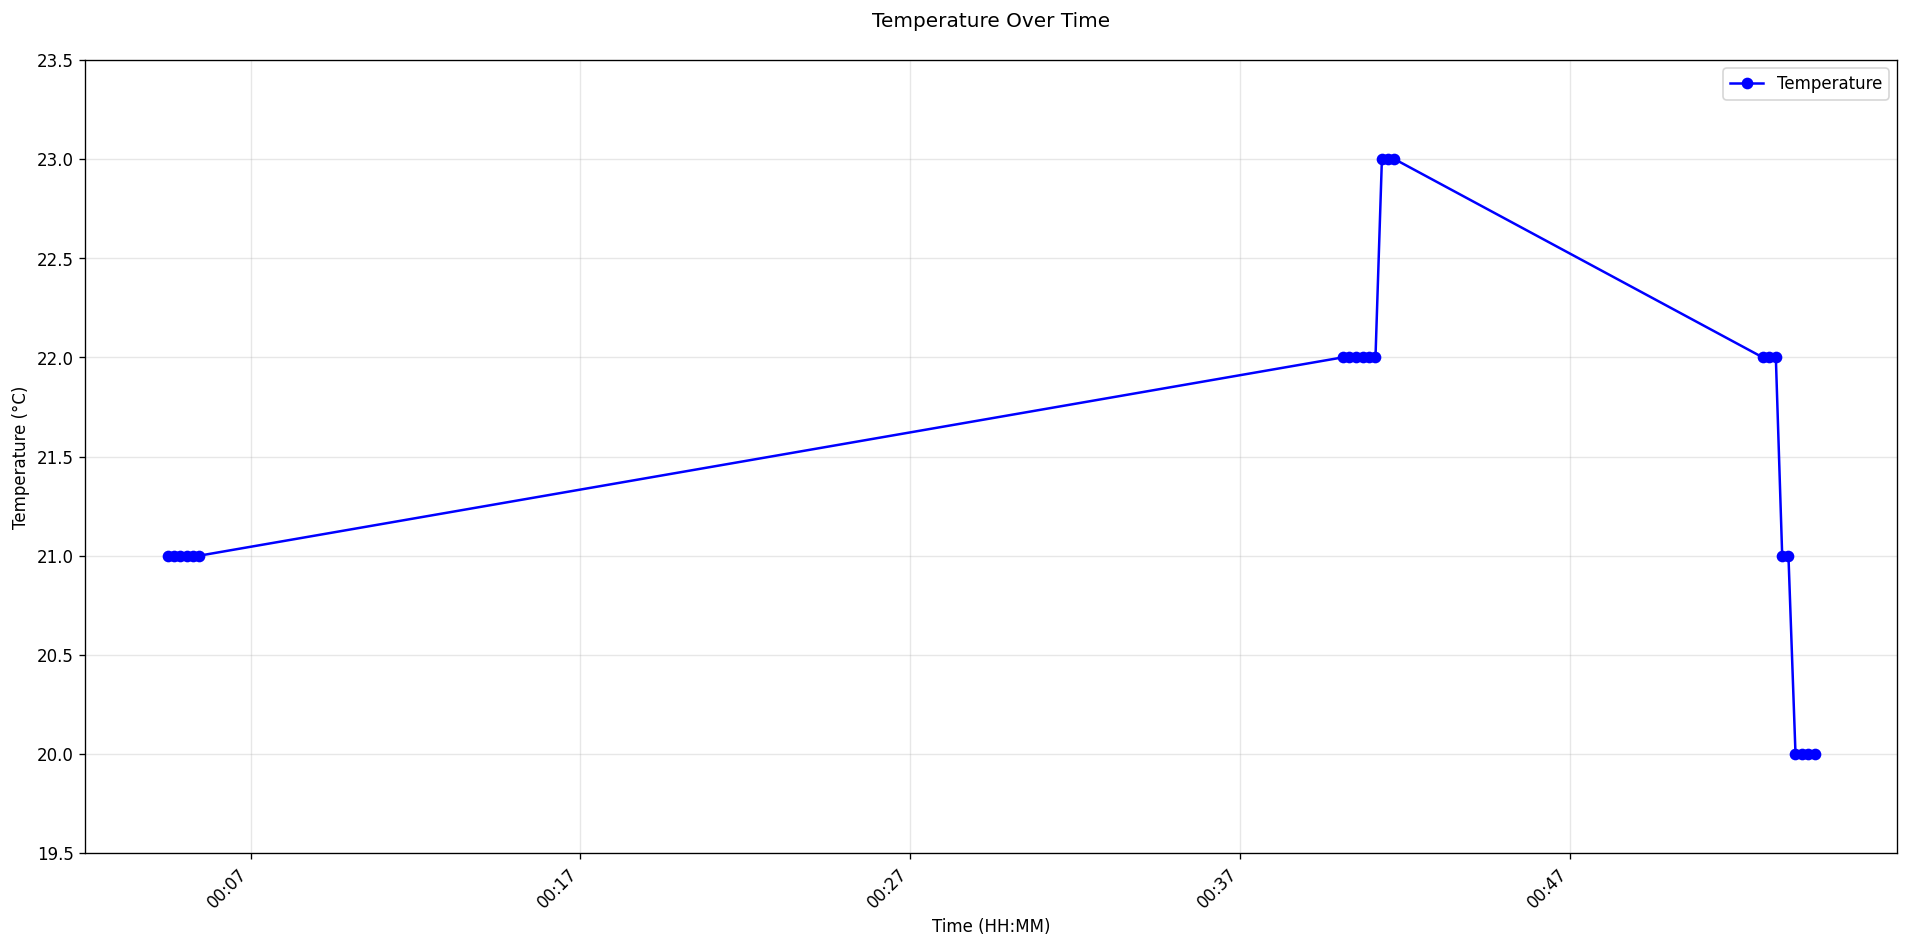
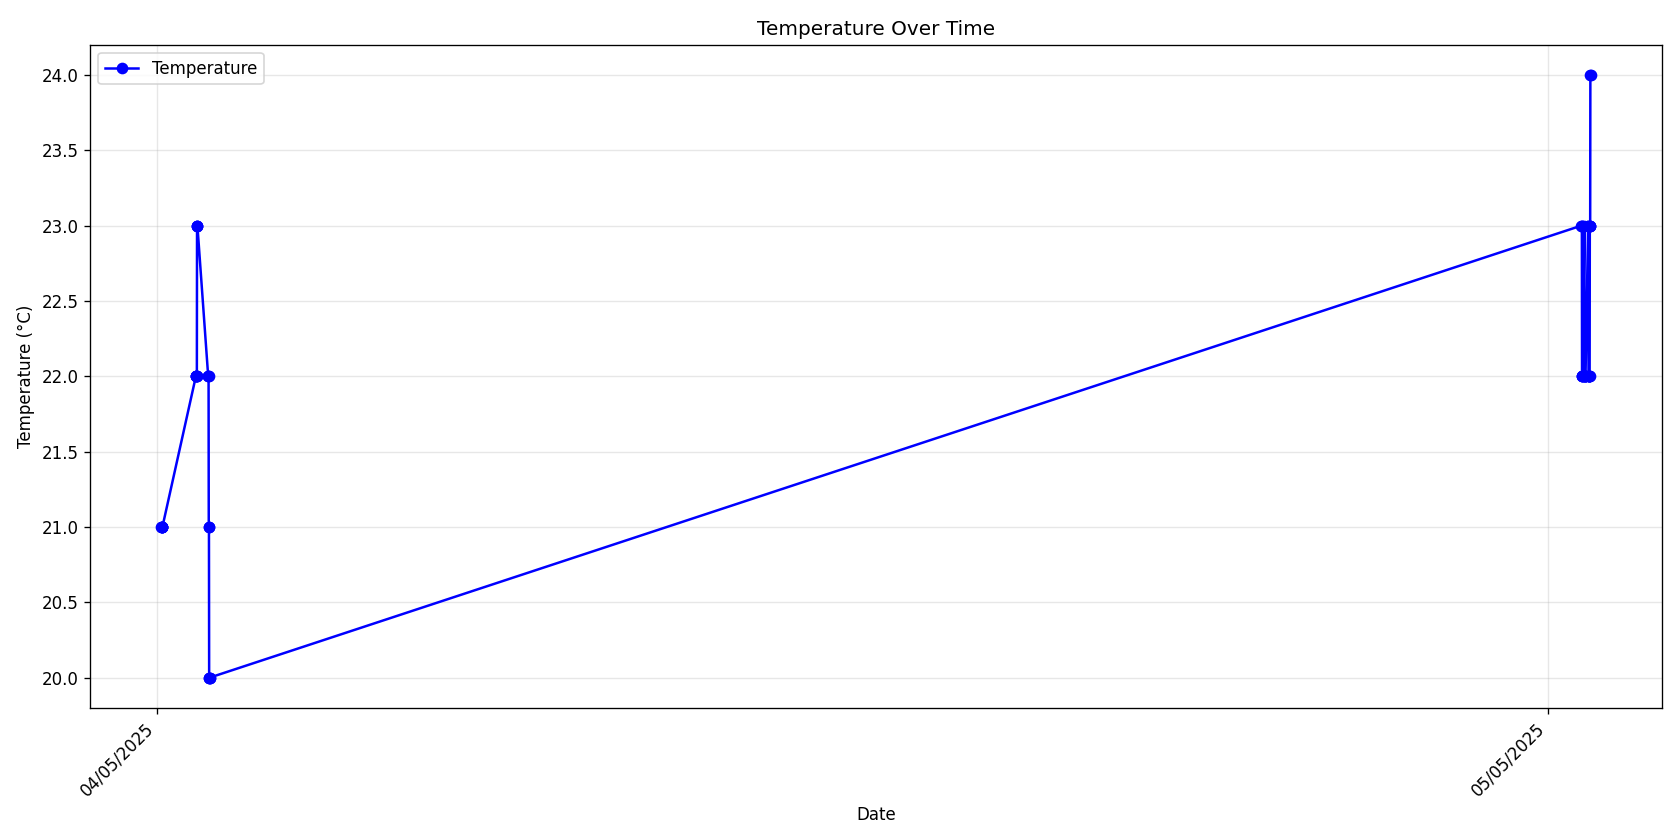
Add occupancy plot

diff --git a/plot_from_blob.py b/plot_from_blob.py
@@ -3,7 +3,9 @@ import base64
 import pandas as pd
 import matplotlib.pyplot as plt
 from azure.storage.blob import ContainerClient
-from matplotlib.dates import DateFormatter, MinuteLocator
+from matplotlib.dates import DayLocator, DateFormatter
+from matplotlib.ticker import MaxNLocator
+import numpy as np
 
 # Load configuration
 with open("config.json") as f:
@@ -16,16 +18,10 @@ container_name = config["storage_container"]
 client = ContainerClient.from_connection_string(connect_str, container_name)
 records = []
 
-# Process ALL blobs in the container
-blob_list = list(client.list_blobs())  
-print(f"Found {len(blob_list)} blobs in container")
-
-for blob in blob_list:
+# Process blobs
+for blob in client.list_blobs():
     try:
-        # Download full blob content
         data = client.download_blob(blob.name).readall().decode('utf-8')
-        
-        # Process each line in the blob
         for line in data.splitlines():
             try:
                 msg = json.loads(line)
@@ -34,61 +30,102 @@ for blob in blob_list:
                 
                 records.append({
                     "timestamp": pd.to_datetime(body["timestamp"]),
-                    "temperature": round(float(body["temperature"]) * 2) / 2,
+                    "temperature": float(body["temperature"]),
                     "occupancy": body["occupancy"]
                 })
             except Exception as e:
-                print(f"Skipped line in {blob.name}: {e}")
+                print(f"Skipped line: {e}")
     except Exception as e:
-        print(f"Failed to process blob {blob.name}: {e}")
+        print(f"Failed to process blob: {e}")
 
 df = pd.DataFrame(records)
 
-# Display ALL records
+# Display ALL records in terminal
 pd.set_option('display.max_rows', None)
 print(f"\nTotal records processed: {len(df)}")
 print("\nFirst 50 records:")
 print(df.head(50).to_string()) 
-print("\n...")  
+print("\n...")
 
-# Plot configuration 
-plt.figure(figsize=(16, 8))
-ax = plt.gca()
-
-if not df.empty:
-    df.sort_values("timestamp", inplace=True)
+# Plot configuration for Temperature
+def plot_temperature(data):
+    plt.figure(figsize=(14, 7))
+    ax = plt.gca()
     
-    # Plot without value labels above dots
-    ax.plot(df["timestamp"], 
-            df["temperature"], 
+    data.sort_values("timestamp", inplace=True)
+    ax.plot(data["timestamp"], 
+            data["temperature"], 
             marker='o', 
             linestyle='-', 
             color='blue',
             label='Temperature')
     
-    # Set y-axis to show 0.5 increments
-    min_temp = min(df["temperature"]) - 0.5
-    max_temp = max(df["temperature"]) + 0.5
-    plt.yticks([x/2 for x in range(int(min_temp*2), int(max_temp*2)+1)])
-    
-    # Set x-axis to show labels every 10 minutes
-    ax.xaxis.set_major_locator(MinuteLocator(interval=10))
-    ax.xaxis.set_major_formatter(DateFormatter('%H:%M'))
-    
-    # Rotate labels
+    # Format axes
+    ax.xaxis.set_major_locator(DayLocator())
+    ax.xaxis.set_major_formatter(DateFormatter('%d/%m/%Y'))
     plt.xticks(rotation=45, ha='right')
-    plt.subplots_adjust(bottom=0.2)
-    
-    # Graph labels
-    plt.title("Temperature Over Time", pad=20)
-    plt.xlabel("Time (HH:MM)")
+    plt.xlabel("Date")
     plt.ylabel("Temperature (°C)")
+    plt.title("Temperature Over Time")
     plt.grid(True, alpha=0.3)
     plt.legend()
     
     plt.tight_layout()
-    plt.savefig("temperature_plot.png", dpi=120, bbox_inches='tight')
-    print("\nPlot saved as 'temperature_plot.png'")
-    plt.show()
+    plt.savefig("temperature_plot.png", dpi=120)
+    print("\nTemperature plot saved as 'temperature_plot.png'")
+
+# Plot configuration for Occupancy (Count-based)
+def plot_occupancy(data):
+    plt.figure(figsize=(16, 8))  
+    ax = plt.gca()
+    
+ 
+    data['date'] = data['timestamp'].dt.date
+    daily_counts = data.groupby(['date', 'occupancy']).size().unstack().fillna(0)
+    
+ 
+    states = ['completely_empty', 'mostly_empty', 'half_full', 'mostly_full', 'fully_occupied']
+    colors = ['#8EB15C', '#C1E1C1', '#FFD700', '#FFA500', '#FF6B6B']  
+    
+   
+    bar_width = 0.15
+    dates = pd.to_datetime(daily_counts.index)
+    x = np.arange(len(dates))
+    
+    for i, state in enumerate(states):
+        if state in daily_counts.columns:
+            ax.bar(x + i*bar_width, daily_counts[state], 
+                   width=bar_width, color=colors[i], 
+                   label=state.replace('_', ' ').title(),
+                   edgecolor='grey', linewidth=0.5)
+    
+    # Format axes
+    ax.set_xticks(x + bar_width*2)
+    ax.set_xticklabels([date.strftime('%d/%m/%Y') for date in dates], rotation=45)
+    ax.set_xlabel("Date", fontsize=12)
+    ax.set_ylabel("Number of Occurrences", fontsize=12)
+    ax.set_title("Daily Parking Occupancy Counts", fontsize=14, pad=20)
+    ax.grid(True, alpha=0.2, axis='y')
+    
+    # Improved legend placement and style
+    legend = ax.legend(
+        bbox_to_anchor=(1.25, 1),  
+        loc='upper left',
+        framealpha=1,
+        title='Occupancy State',
+        title_fontsize=12,
+        fontsize=10
+    )
+    
+    
+    plt.tight_layout()
+    plt.savefig("occupancy_plot.png", dpi=120, bbox_inches='tight')
+    print("Occupancy counts plot saved as 'occupancy_plot.png'")
+
+# Generate and display plots
+if not df.empty:
+    plot_temperature(df)
+    plot_occupancy(df)
+    plt.show()  
 else:
     print("No valid data to plot")

diff --git a/app.py b/app.py
@@ -16,6 +16,7 @@ from azure.iot.device.exceptions import ConnectionFailedError
 
 
 
+
 #Communication Config
 id = 'hahauekIOT'
 with open("config.json") as f:
@@ -60,7 +61,7 @@ predictor = CustomVisionPredictionClient(endpoint, prediction_credentials)
 os.makedirs('parking_images', exist_ok=True)
 
 # Log directory
-LOG_FILE = "temperature_logs.txt"
+LOG_FILE = "logs.txt"
 
 # LCD Functions
 def lcd_command(cmd):
@@ -99,7 +100,7 @@ def display_lcd_line1(time_str, temp):
 
 def display_lcd_line2(text):
     lcd_command(0xC0)
-    lcd_write(text[:16])  # Limit to 16 chars for LCD
+    lcd_write(text[:16]) 
 
 def analyze_parking(image_data):
     image_data.seek(0)
@@ -137,15 +138,13 @@ def save_image_with_results(image_data, tag, probability, filename, temperature=
         return None
 
 
-def log_temperature(temperature):
-    """Logs temperature with timestamp in format: 2025-05-04T14:30:22 - 23.5°C"""
+def log_data(temperature, occupancy):
     timestamp = datetime.now().strftime("%Y-%m-%dT%H:%M:%S")
-    log_entry = f"{timestamp} - {temperature:.1f}°C\n"
+    log_entry = f"{timestamp} - {temperature:.1f}°C - {occupancy}\n"
     
     with open(LOG_FILE, 'a') as f:
-        f.write(log_entry)     
+        f.write(log_entry)
 
-from azure.iot.device.exceptions import ConnectionFailedError
 
 def send_with_retry(device_client, message, max_retries=3, initial_delay=1):
     for attempt in range(max_retries):
@@ -167,7 +166,7 @@ def take_and_process_photo():
     tag, probability = analyze_parking(image_stream)
     _, temp = sensor.read()
 
-    log_temperature(temp)
+    log_data(temp, tag)
 
     timestamp = datetime.now().strftime("%Y%m%d_%H%M%S")
     filename = f"parking_images/parking_{timestamp}.jpg"
